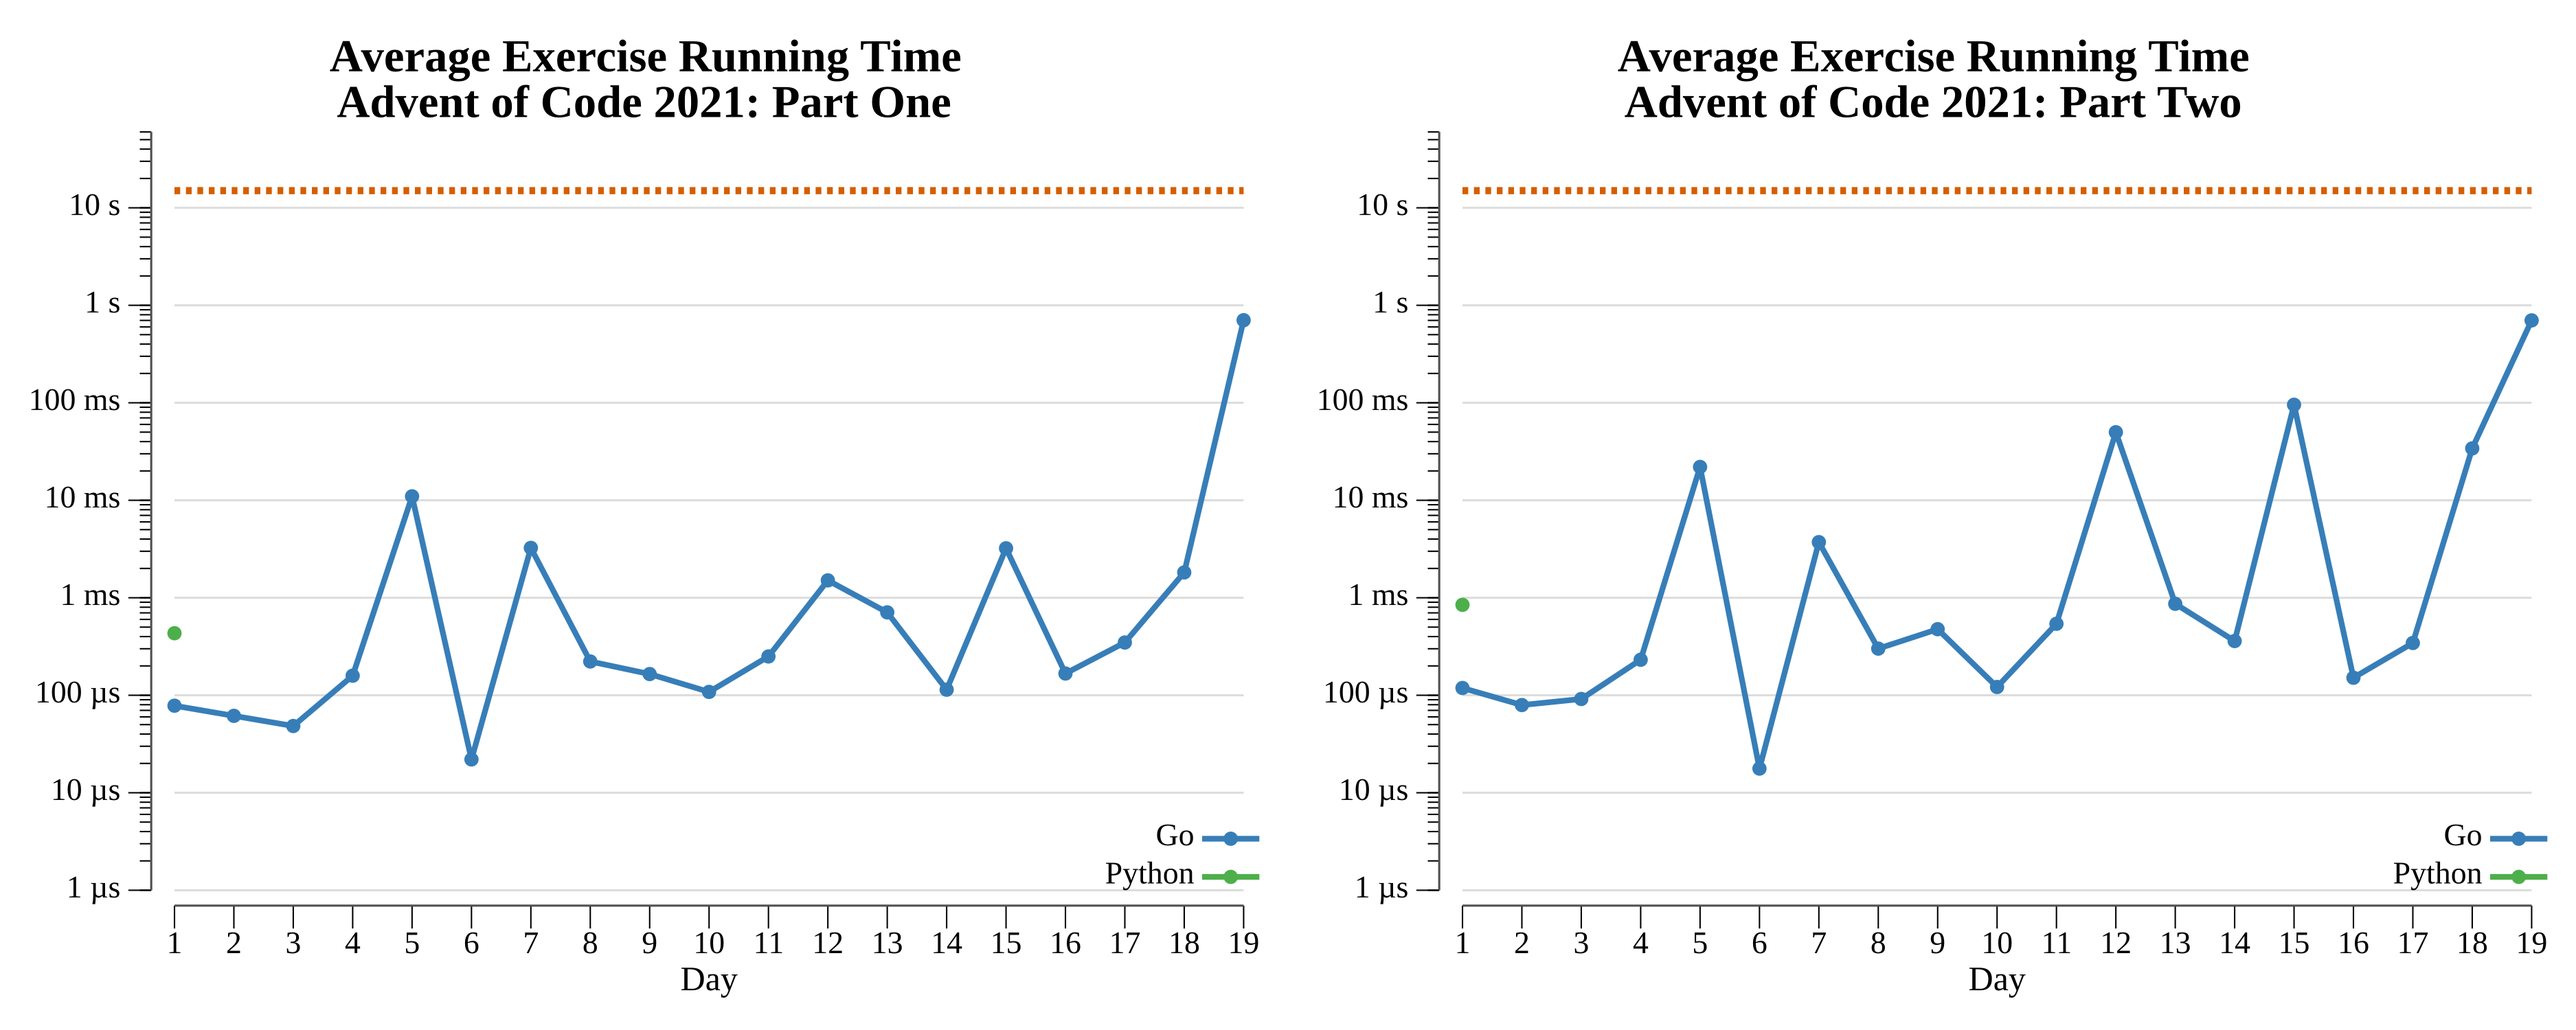
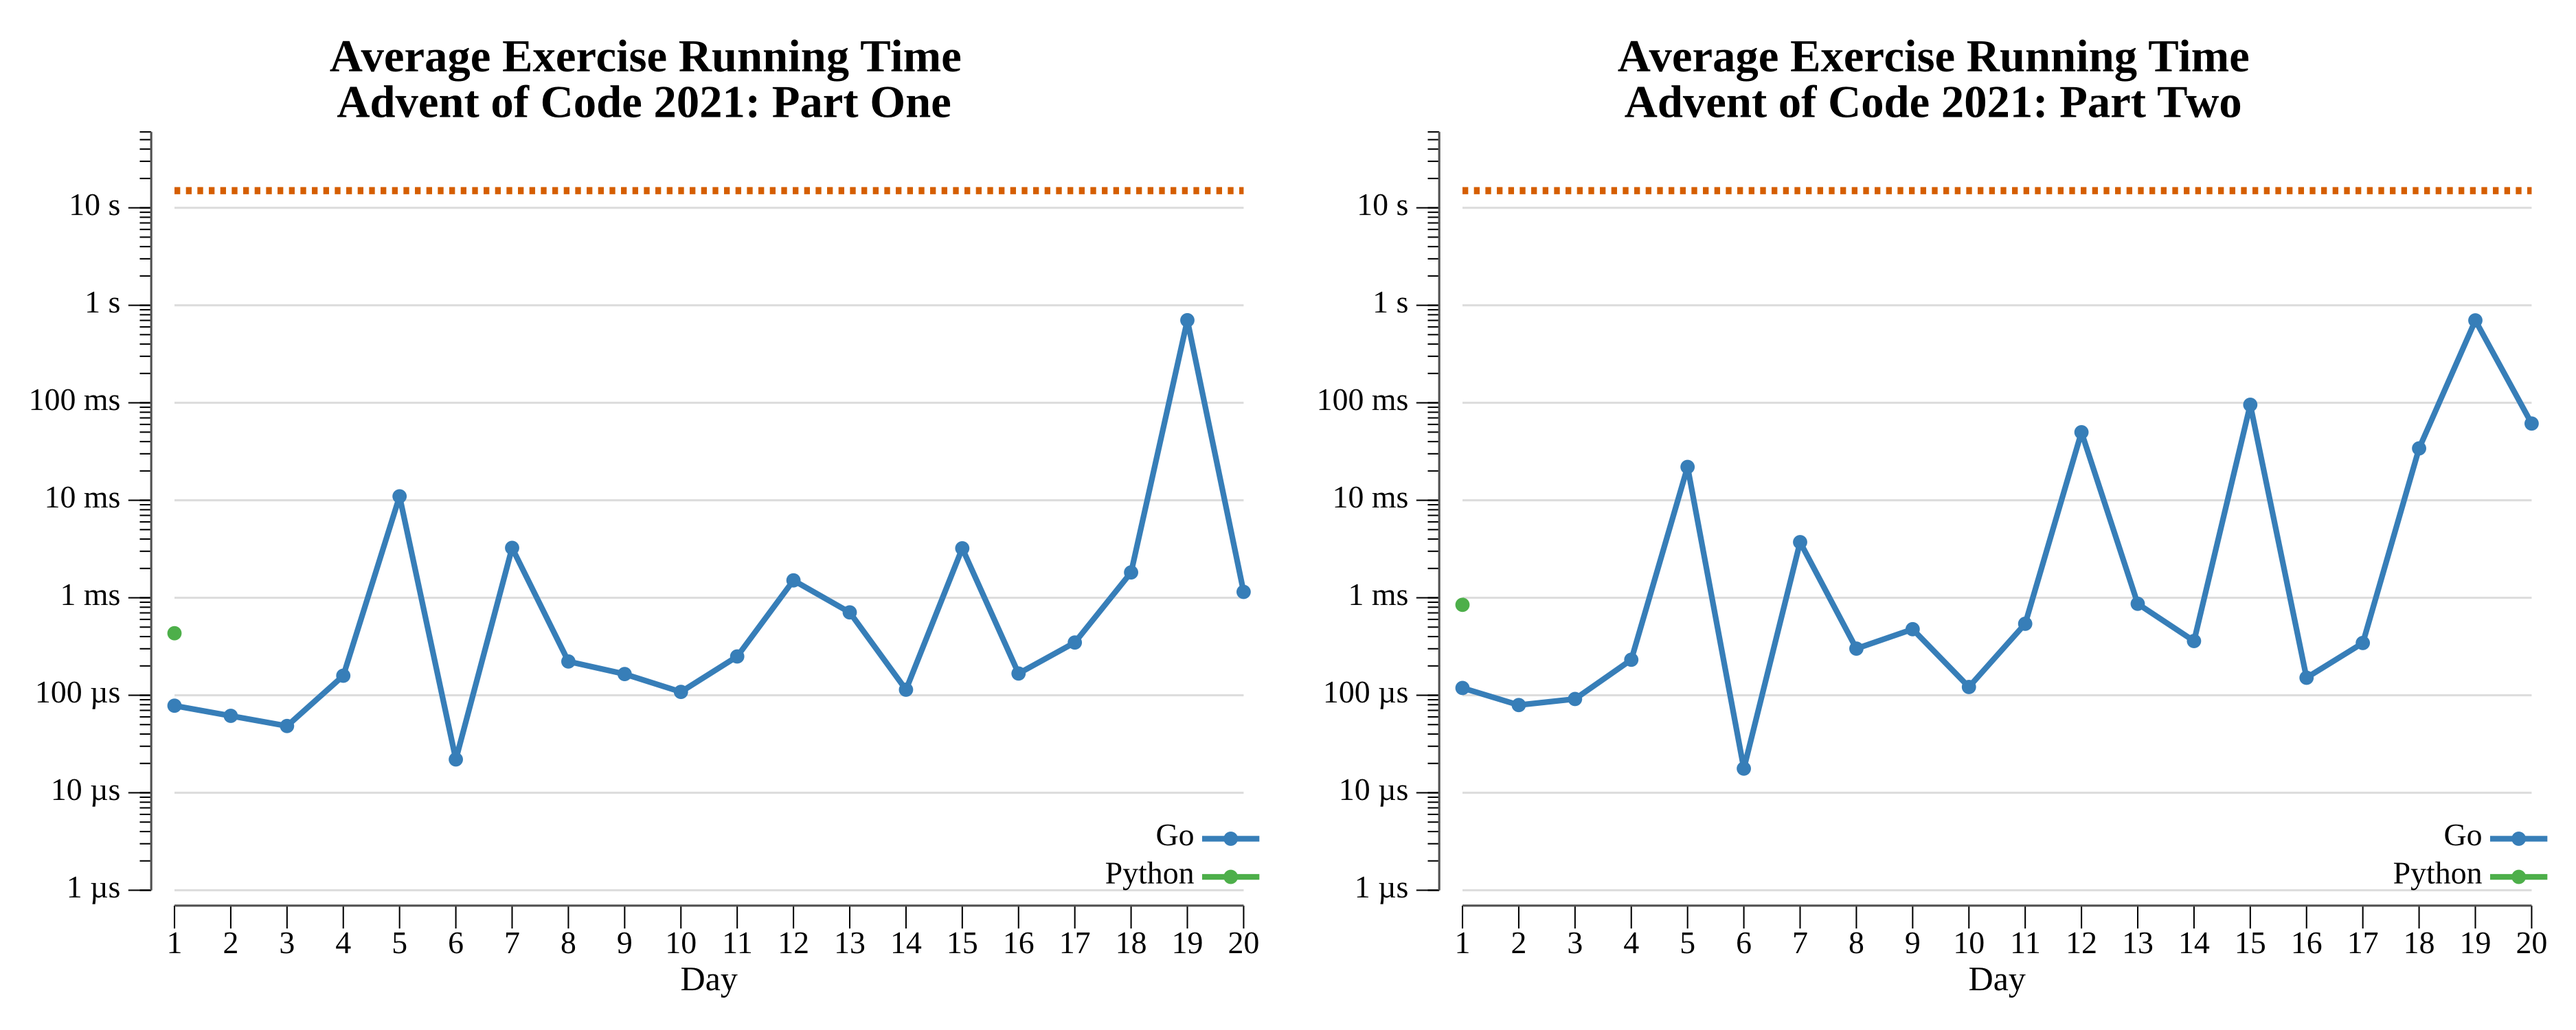
2021 day 20

diff --git a/exercises/2021/20-trenchMap/go/exercise.go b/exercises/2021/20-trenchMap/go/exercise.go
@@ -1,0 +1,140 @@
+package exercises
+
+import (
+	"fmt"
+	"strings"
+
+	"github.com/asphaltbuffet/advent-of-code/internal/common"
+)
+
+// Exercise for Advent of Code 2021 day 20.
+type Exercise struct {
+	common.BaseExercise
+}
+
+type enhImage struct {
+	pixels [][]bool // known window
+	bg     bool     // value of the infinite background outside the window
+}
+
+func parse(instr string) (string, enhImage, error) {
+	algoPart, imgPart, ok := strings.Cut(strings.TrimSpace(instr), "\n\n")
+	if !ok {
+		return "", enhImage{}, fmt.Errorf("input missing blank-line separator")
+	}
+	algo := strings.ReplaceAll(strings.TrimSpace(algoPart), "\n", "")
+	if len(algo) != 512 {
+		return "", enhImage{}, fmt.Errorf("algorithm must be 512 chars, got %d", len(algo))
+	}
+
+	var pixels [][]bool
+	for _, line := range strings.Split(strings.TrimSpace(imgPart), "\n") {
+		line = strings.TrimSpace(line)
+		if line == "" {
+			continue
+		}
+		row := make([]bool, len(line))
+		for i, c := range line {
+			row[i] = c == '#'
+		}
+		pixels = append(pixels, row)
+	}
+
+	return algo, enhImage{pixels: pixels, bg: false}, nil
+}
+
+// at returns the pixel at (r,c), falling back to the infinite background when
+// the coordinate lies outside the known window.
+func (im enhImage) at(r, c int) bool {
+	if r < 0 || r >= len(im.pixels) || c < 0 || c >= len(im.pixels[0]) {
+		return im.bg
+	}
+	return im.pixels[r][c]
+}
+
+// enhance applies the algorithm once, growing the window by one cell on every
+// side and toggling the background if algo[0] flips empty space on.
+func enhance(algo string, im enhImage) enhImage {
+	rows := len(im.pixels) + 2
+	cols := len(im.pixels[0]) + 2
+	out := make([][]bool, rows)
+
+	for r := 0; r < rows; r++ {
+		out[r] = make([]bool, cols)
+		for c := 0; c < cols; c++ {
+			// Map output (r,c) back to input coords (offset by -1).
+			idx := 0
+			for dr := -1; dr <= 1; dr++ {
+				for dc := -1; dc <= 1; dc++ {
+					idx <<= 1
+					if im.at(r-1+dr, c-1+dc) {
+						idx |= 1
+					}
+				}
+			}
+			out[r][c] = algo[idx] == '#'
+		}
+	}
+
+	nbg := im.bg
+	if im.bg {
+		nbg = algo[511] == '#' // all-lit neighborhood
+	} else {
+		nbg = algo[0] == '#' // all-dark neighborhood
+	}
+
+	return enhImage{pixels: out, bg: nbg}
+}
+
+func litCount(algo string, im enhImage, steps int) (int, error) {
+	for i := 0; i < steps; i++ {
+		im = enhance(algo, im)
+	}
+
+	// After a finite number of steps the background is finite too; if it is lit
+	// the count would be infinite, but the puzzle inputs are chosen so it is dark
+	// at the sampled steps.
+	if im.bg {
+		return 0, fmt.Errorf("infinite background is lit after %d steps", steps)
+	}
+
+	count := 0
+	for _, row := range im.pixels {
+		for _, p := range row {
+			if p {
+				count++
+			}
+		}
+	}
+	return count, nil
+}
+
+// One returns the answer to the first part of the exercise.
+func (e Exercise) One(instr string) (any, error) {
+	algo, im, err := parse(instr)
+	if err != nil {
+		return nil, fmt.Errorf("parsing input: %w", err)
+	}
+
+	n, err := litCount(algo, im, 2)
+	if err != nil {
+		return nil, err
+	}
+
+	return fmt.Sprintf("%d", n), nil
+}
+
+// Two returns the answer to the second part of the exercise.
+func (e Exercise) Two(instr string) (any, error) {
+	algo, im, err := parse(instr)
+	if err != nil {
+		return nil, fmt.Errorf("parsing input: %w", err)
+	}
+
+	n, err := litCount(algo, im, 50)
+	if err != nil {
+		return nil, err
+	}
+
+	return fmt.Sprintf("%d", n), nil
+}

diff --git a/exercises/2021/20-trenchMap/go/vis.go b/exercises/2021/20-trenchMap/go/vis.go
@@ -1,0 +1,113 @@
+package exercises
+
+import (
+	"image"
+	"image/color"
+	"image/gif"
+	"os"
+	"path/filepath"
+)
+
+// Vis animates the image enhancement (GIF), one frame per step. The picture
+// grows by a ring each step and gains detail; when the algorithm lights empty
+// space (algo[0] = '#'), the infinite background flickers on for odd steps, shown
+// as the frame's fill color. Lit pixels are bright on the dark (or flickered)
+// background. Every frame is scaled to a fixed canvas sized to the final image,
+// so the growth reads as the picture filling out from the center.
+func (e Exercise) Vis(instr, outdir string) error {
+	algo, im, err := parse(instr)
+	if err != nil {
+		return err
+	}
+
+	const steps = 50
+	frames := []image2img{snapshot(im)}
+	for i := 0; i < steps; i++ {
+		im = enhance(algo, im)
+		frames = append(frames, snapshot(im))
+	}
+
+	finalRows := len(frames[len(frames)-1].pix)
+	finalCols := len(frames[len(frames)-1].pix[0])
+
+	const canvas = 500
+	scale := canvas / finalCols
+	if s := canvas / finalRows; s < scale {
+		scale = s
+	}
+	if scale < 1 {
+		scale = 1
+	}
+	W := finalCols * scale
+	H := finalRows * scale
+
+	pal := color.Palette{
+		color.RGBA{0x0d, 0x0f, 0x18, 0xff}, // 0 dark background / unlit
+		color.RGBA{0xF0, 0xE4, 0x42, 0xff}, // 1 lit pixel
+		color.RGBA{0x2a, 0x24, 0x10, 0xff}, // 2 flickered (lit) background
+	}
+
+	anim := &gif.GIF{}
+	for _, fr := range frames {
+		img := image.NewPaletted(image.Rect(0, 0, W, H), pal)
+		// Background fill: index 2 when the infinite void is currently lit.
+		bgIdx := uint8(0)
+		if fr.bg {
+			bgIdx = 2
+		}
+		for i := range img.Pix {
+			img.Pix[i] = bgIdx
+		}
+
+		// Center this frame's (smaller) image in the fixed canvas.
+		fr2rows := len(fr.pix)
+		fr2cols := len(fr.pix[0])
+		offR := (finalRows - fr2rows) / 2
+		offC := (finalCols - fr2cols) / 2
+		for r := 0; r < fr2rows; r++ {
+			for c := 0; c < fr2cols; c++ {
+				idx := bgIdx
+				if fr.pix[r][c] {
+					idx = 1
+				}
+				gr, gc := r+offR, c+offC
+				for dy := 0; dy < scale; dy++ {
+					for dx := 0; dx < scale; dx++ {
+						img.SetColorIndex((gc)*scale+dx, (gr)*scale+dy, idx)
+					}
+				}
+			}
+		}
+
+		anim.Image = append(anim.Image, img)
+		delay := 14
+		if len(anim.Delay) == 0 {
+			delay = 120
+		}
+		anim.Delay = append(anim.Delay, delay)
+	}
+	if len(anim.Delay) > 0 {
+		anim.Delay[len(anim.Delay)-1] = 400
+	}
+
+	f, err := os.Create(filepath.Join(outdir, "trench-map.gif"))
+	if err != nil {
+		return err
+	}
+	defer f.Close()
+	return gif.EncodeAll(f, anim)
+}
+
+type image2img struct {
+	pix [][]bool
+	bg  bool
+}
+
+func snapshot(im enhImage) image2img {
+	out := make([][]bool, len(im.pixels))
+	for r := range im.pixels {
+		out[r] = make([]bool, len(im.pixels[r]))
+		copy(out[r], im.pixels[r])
+	}
+	return image2img{pix: out, bg: im.bg}
+}

diff --git a/exercises/2021/20-trenchMap/README.md b/exercises/2021/20-trenchMap/README.md
@@ -1,0 +1,46 @@
+# [Day 20: Trench Map](https://adventofcode.com/2021/day/20)
+
+<!-- These are helper text to make formatting the yearly readme consistent and easier...
+
+[Day 20: Trench Map][rm20]
+[Go][go20]
+
+[rm20]: 20-trenchMap/README.md
+[go20]: 20-trenchMap/go
+
+-->
+
+## Notes
+
+Each output pixel is the 3×3 neighborhood read as a 9-bit index into the
+512-entry algorithm. The catch is the infinite background: if `algo[0]` is `#`,
+all the empty space flips lit on odd steps (and back on even steps, since the
+all-lit index must map to `.`). The image tracks a `bg` value that toggles
+accordingly, and pixels outside the known window sample it. The window grows a
+ring each step. Part One runs 2 enhancements, Part Two runs 50.
+
+## Go
+
+```text
+────────────────────────────────────────
+─       2021 Day 20: Trench Map        ─
+────────────────────────────────────────
+
+Solving (Go)…
+1.0:  PASS             1.170ms
+2.0:  PASS            62.554ms
+```
+
+## Visualization
+
+The enhancement animated (GIF), one frame per step. The picture grows a ring each
+step and gains detail, spreading from the center into an organic blob; when the
+algorithm lights empty space, the infinite background flickers on for odd steps.
+Lit pixels are bright on a dark background — a single lit color, so the structure
+reads by brightness in grayscale.
+
+![Trench Map enhancement](trench-map.gif)
+
+## Run Times
+
+![Day 20 run-time graphs](run-times.png)

diff --git a/exercises/2021/README.md b/exercises/2021/README.md
@@ -25,7 +25,7 @@
 | [Day 17: Trick Shot](17-trickShot/README.md)  |  ★ ★  | [Go](17-trickShot/go)                              |
 | [Day 18: Snailfish](18-snailfish/README.md)   |  ★ ★  | [Go](18-snailfish/go)                              |
 | [Day 19: Beacon Scanner](19-beaconScanner/README.md) |  ★ ★  | [Go](19-beaconScanner/go)                          |
-| 20                                            |  ☆ ☆  |                                                    |
+| [Day 20: Trench Map](20-trenchMap/README.md)  |  ★ ★  | [Go](20-trenchMap/go)                              |
 | 21                                            |  ☆ ☆  |                                                    |
 | 22                                            |  ☆ ☆  |                                                    |
 | 23                                            |  ☆ ☆  |                                                    |
